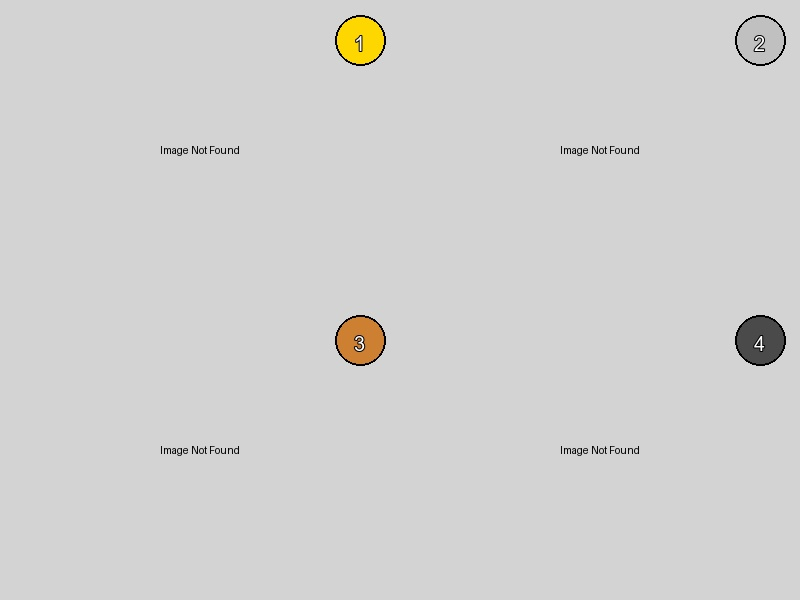
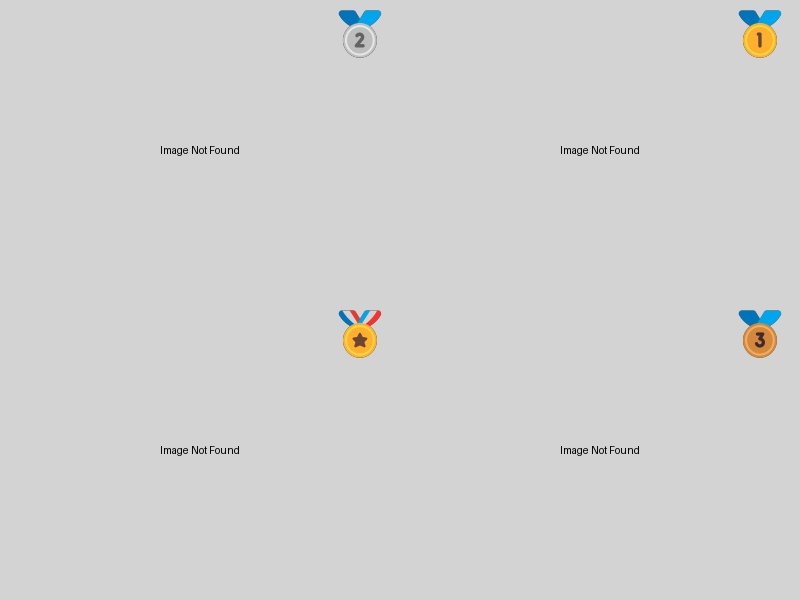
finished the image genrator

diff --git a/image_grid_creator.py b/image_grid_creator.py
@@ -13,11 +13,11 @@ class ImageGridCreator:
             grid_size: Tuple of (width, height) for the final grid image
         """
         self.grid_size = grid_size
-        self.medal_colors = {
-            1: '#FFD700',  # Gold
-            2: '#C0C0C0',  # Silver
-            3: '#CD7F32',  # Bronze
-            4: '#4A4A4A'  # Gray for 4th place
+        self.medal_emojis = {
+            1: '🥇',  # Gold medal
+            2: '🥈',  # Silver medal
+            3: '🥉',  # Bronze medal
+            4: '🏅'  # Sports medal for 4th place
         }
 
     def download_image(self, url: str) -> Image.Image:
@@ -43,39 +43,81 @@ class ImageGridCreator:
             draw.text((200, 150), "Image Not Found", fill='black', anchor='mm')
             return placeholder
 
-    def create_medal(self, place: int, size: int = 60) -> Image.Image:
+    def create_medal(self, place: int, size: int = 80) -> Image.Image:
         """
-        Create a medal image for the given place
+        Create a medal emoji image for the given place (or number for 4th place)
 
         Args:
             place: Place number (1-4)
             size: Size of the medal in pixels
 
         Returns:
-            PIL Image object of the medal
+            PIL Image object of the medal emoji or number
         """
         medal = Image.new('RGBA', (size, size), (0, 0, 0, 0))
         draw = ImageDraw.Draw(medal)
 
-        # Draw medal circle
-        color = self.medal_colors.get(place, '#4A4A4A')
-        draw.ellipse([5, 5, size - 5, size - 5], fill=color, outline='black', width=2)
+        if place == 4:
+            # For 4th place, draw a smaller circle with the number 4
+            circle_margin = 15  # More margin to make circle smaller
+            draw.ellipse([circle_margin, circle_margin, size - circle_margin, size - circle_margin], fill='#4A4A4A',
+                         outline='black', width=2)
 
-        # Add place number
-        try:
-            # Try to use default font, fall back to basic if not available
-            font = ImageFont.truetype("arial.ttf", size // 3)
-        except:
-            font = ImageFont.load_default()
+            # Add the number 4 with Rubik font (smaller size)
+            try:
+                font = ImageFont.truetype("Rubik-Regular.ttf", size // 3)  # Smaller font
+            except:
+                try:
+                    font = ImageFont.truetype("Rubik.ttf", size // 3)
+                except:
+                    try:
+                        # Try system font paths
+                        font = ImageFont.truetype("C:/Windows/Fonts/Rubik-Regular.ttf", size // 3)
+                    except:
+                        # Fall back to arial if Rubik not found
+                        try:
+                            font = ImageFont.truetype("arial.ttf", size // 3)
+                        except:
+                            font = ImageFont.load_default()
 
-        # Draw the place number
-        text = str(place)
-        bbox = draw.textbbox((0, 0), text, font=font)
-        text_width = bbox[2] - bbox[0]
-        text_height = bbox[3] - bbox[1]
-        x = (size - text_width) // 2
-        y = (size - text_height) // 2
-        draw.text((x, y), text, fill='white', font=font, stroke_width=1, stroke_fill='black')
+            text = "4"
+            # Get exact text bounding box for perfect centering
+            bbox = draw.textbbox((0, 0), text, font=font)
+            text_width = bbox[2] - bbox[0]
+            text_height = bbox[3] - bbox[1]
+
+            # Calculate center position more precisely
+            x = (size - text_width) // 2 - bbox[0]  # Adjust for bbox offset
+            y = (size - text_height) // 2 - bbox[1]  # Adjust for bbox offset
+
+            draw.text((x, y), text, fill='white', font=font, stroke_width=2, stroke_fill='black')
+        else:
+            # For 1st, 2nd, 3rd place, use emojis
+            emoji = self.medal_emojis.get(place, '🏅')
+
+            # Try to use a larger font size for better emoji visibility
+            font_size = int(size * 0.8)  # Use 80% of the medal size
+            try:
+                # Try to load a font that supports emojis
+                font = ImageFont.truetype("seguiemj.ttf", font_size)  # Windows emoji font
+            except:
+                try:
+                    font = ImageFont.truetype("NotoColorEmoji.ttf", font_size)  # Linux emoji font
+                except:
+                    try:
+                        font = ImageFont.truetype("Apple Color Emoji.ttc", font_size)  # macOS emoji font
+                    except:
+                        # Fall back to default font with smaller size
+                        font = ImageFont.load_default()
+                        font_size = size // 2
+
+            # Draw the emoji
+            bbox = draw.textbbox((0, 0), emoji, font=font)
+            text_width = bbox[2] - bbox[0]
+            text_height = bbox[3] - bbox[1]
+            x = (size - text_width) // 2
+            y = (size - text_height) // 2
+            draw.text((x, y), emoji, font=font, embedded_color=True)
 
         return medal
 
@@ -141,11 +183,13 @@ class ImageGridCreator:
             # Paste the image
             grid_image.paste(img, pos)
 
-            # Create and paste medal
-            medal = self.create_medal(i + 1)
+            # Create and paste medal (made bigger)
+            medal = self.create_medal(i + 1, size=80)
             medal_x = pos[0] + individual_width - medal.width - 10
             medal_y = pos[1] + 10
-
+            if i == 3:  # 4th place (index 3)
+                medal_x = pos[0] + individual_width - medal.width - 3  # Change this number
+                medal_y = pos[1] - 5  # Change this number
             # Paste medal with transparency
             if medal.mode == 'RGBA':
                 grid_image.paste(medal, (medal_x, medal_y), medal)
@@ -168,7 +212,7 @@ class ImageGridCreator:
 
         return grid_image
 
-# Example usage
+
 if __name__ == "__main__":
     # Example image URLs (replace with your own)
     creator = ImageGridCreator(grid_size=(800, 800))
